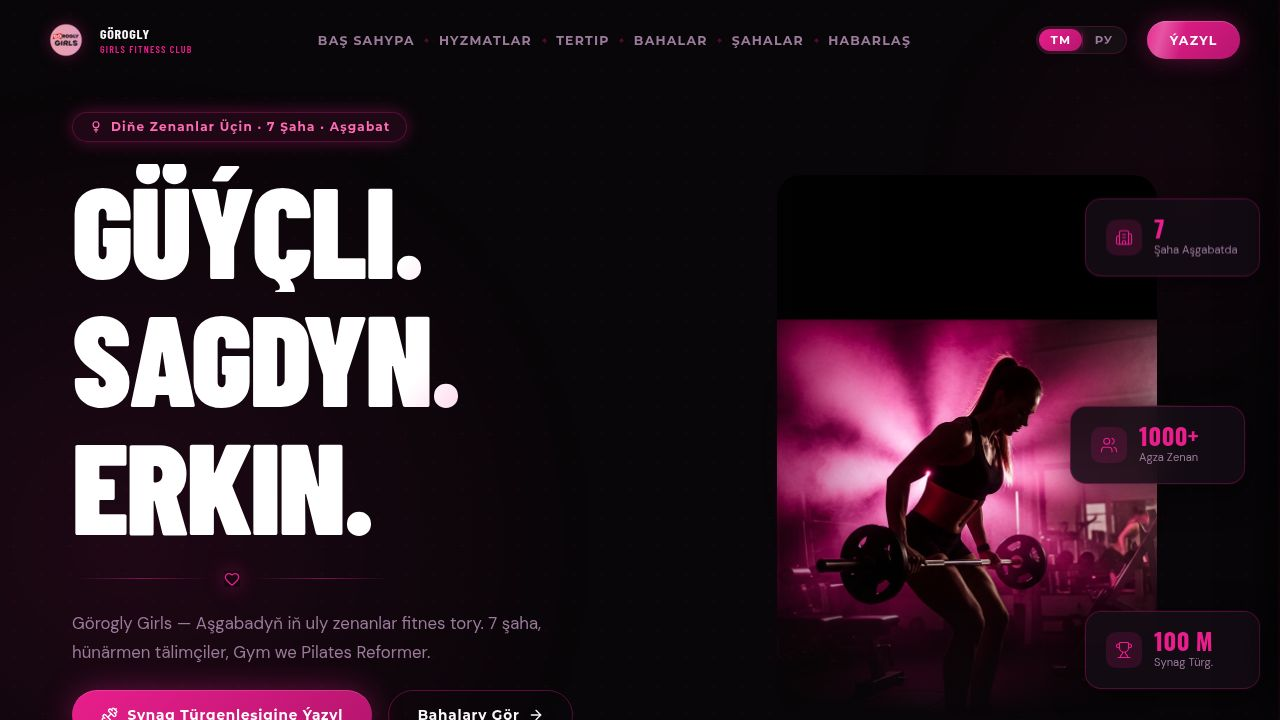
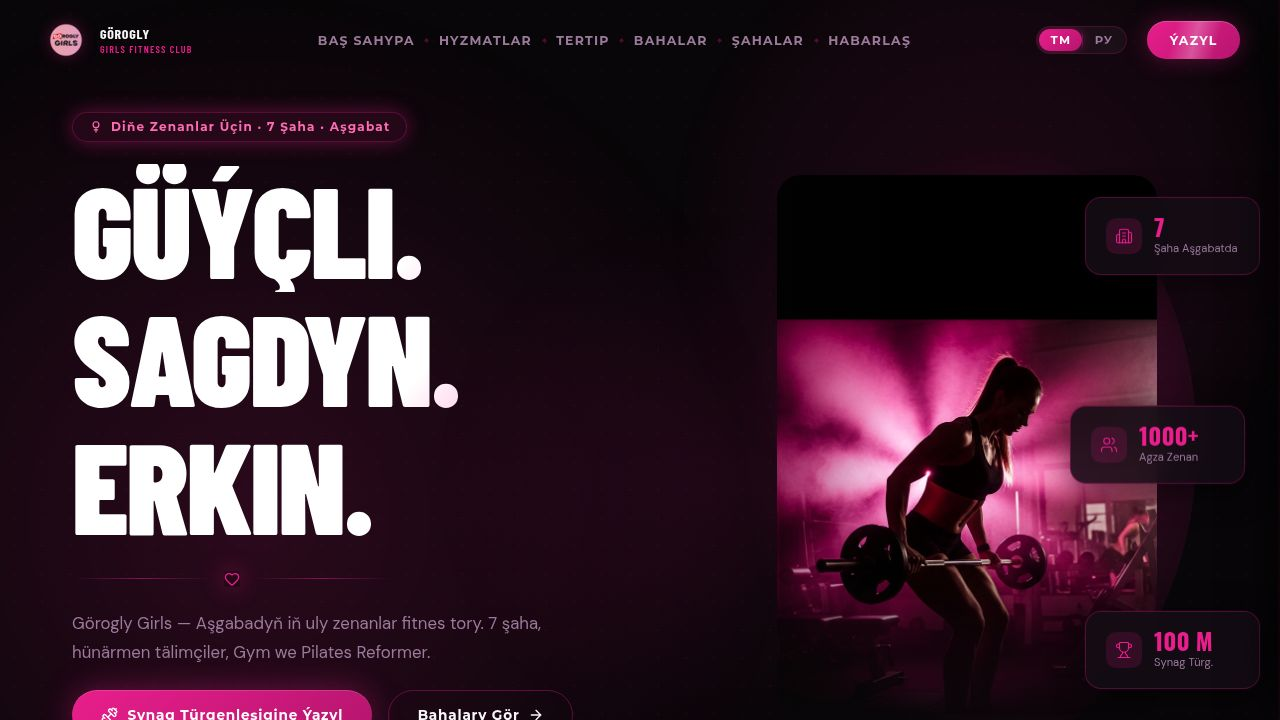
Enhance website visuals with new animations and background effects
Add new CSS keyframe animations including `kenBurns`, `floatOrb`, and `scanLight`. Update existing CSS for `.diag-slash` and introduce new background elements like `.section-mesh`, `.schedule-bg`, `.programs-section-bg`, and `.testimonials-section-bg`. Modify `Home.tsx` to include mobile hero scan and energy divs.

Replit-Commit-Author: Agent
Replit-Commit-Session-Id: 2ae84f4b-2567-4b8b-937e-3b225913a810
Replit-Commit-Checkpoint-Type: full_checkpoint
Replit-Commit-Event-Id: ab05aeac-97c8-4267-9239-1e348e62135b
Replit-Commit-Screenshot-Url: https://storage.googleapis.com/screenshot-production-us-central1/b4bff077-d173-4519-809c-0be909630ca8/2ae84f4b-2567-4b8b-937e-3b225913a810/CxEmX8B
Replit-Helium-Checkpoint-Created: true

diff --git a/artifacts/gorogly-girls/src/index.css b/artifacts/gorogly-girls/src/index.css
@@ -34,13 +34,21 @@ h1, h2, h3, .display { font-family: 'Barlow Condensed', sans-serif; }
 .font-montserrat { font-family: 'Montserrat', sans-serif; }
 
 /* ===== ANIMATIONS ===== */
-@keyframes nebula1   { 0%,100%{transform:translate(0,0) scale(1)}50%{transform:translate(5%,3%) scale(1.08)} }
-@keyframes nebula2   { 0%,100%{transform:translate(0,0) scale(1)}50%{transform:translate(-4%,5%) scale(1.12)} }
-@keyframes floatCard { 0%,100%{transform:translateY(0)}50%{transform:translateY(-12px)} }
-@keyframes pinkGlow  { 0%,100%{box-shadow:0 0 12px rgba(233,30,140,0.25)}50%{box-shadow:0 0 28px rgba(233,30,140,0.5)} }
-@keyframes shimmer   { 0%{left:-100%}100%{left:200%} }
-@keyframes fadeUp    { from{opacity:0;transform:translateY(20px)}to{opacity:1;transform:none} }
-@keyframes rotateSlow{ from{transform:rotate(0deg)}to{transform:rotate(360deg)} }
+@keyframes nebula1    { 0%,100%{transform:translate(0,0) scale(1)}50%{transform:translate(5%,3%) scale(1.08)} }
+@keyframes nebula2    { 0%,100%{transform:translate(0,0) scale(1)}50%{transform:translate(-4%,5%) scale(1.12)} }
+@keyframes floatCard  { 0%,100%{transform:translateY(0)}50%{transform:translateY(-12px)} }
+@keyframes pinkGlow   { 0%,100%{box-shadow:0 0 12px rgba(233,30,140,0.25)}50%{box-shadow:0 0 28px rgba(233,30,140,0.5)} }
+@keyframes shimmer    { 0%{left:-100%}100%{left:200%} }
+@keyframes fadeUp     { from{opacity:0;transform:translateY(20px)}to{opacity:1;transform:none} }
+@keyframes rotateSlow { from{transform:rotate(0deg)}to{transform:rotate(360deg)} }
+@keyframes kenBurns   { 0%{transform:scale(1.15) translateY(-2%)}100%{transform:scale(1.0) translateY(0)} }
+@keyframes floatOrb   { 0%,100%{transform:translateY(0) scale(1);opacity:0.6} 50%{transform:translateY(-30px) scale(1.1);opacity:0.9} }
+@keyframes floatOrb2  { 0%,100%{transform:translateY(0) scale(1.05);opacity:0.5} 50%{transform:translateY(20px) scale(0.95);opacity:0.8} }
+@keyframes pulseRing  { 0%{transform:scale(0.85);opacity:0.8} 100%{transform:scale(1.5);opacity:0} }
+@keyframes gradientShift { 0%{background-position:0% 50%} 50%{background-position:100% 50%} 100%{background-position:0% 50%} }
+@keyframes scanLight  { 0%{top:-20%}100%{top:120%} }
+@keyframes slideUp    { from{opacity:0;transform:translateY(40px)}to{opacity:1;transform:none} }
+@keyframes energyPulse{ 0%,100%{opacity:0.4;transform:scaleY(1)}50%{opacity:0.7;transform:scaleY(1.05)} }
 
 /* Reveal animations */
 .reveal, .reveal-left, .reveal-right {
@@ -298,14 +306,73 @@ h1, h2, h3, .display { font-family: 'Barlow Condensed', sans-serif; }
 /* Diagonal slash background */
 .diag-slash {
   position: absolute; pointer-events: none; z-index: 0;
-  top: -20%; right: -10%; width: 60%; height: 140%;
+  top: -20%; right: -10%; width: 70%; height: 140%;
   background: linear-gradient(
     -45deg,
-    transparent 45%,
-    rgba(var(--pink-rgb), 0.035) 45%,
-    rgba(var(--pink-rgb), 0.035) 55%,
-    transparent 55%
+    transparent 38%,
+    rgba(var(--pink-rgb), 0.055) 38%,
+    rgba(var(--pink-rgb), 0.055) 50%,
+    rgba(var(--pink-rgb), 0.025) 50%,
+    rgba(var(--pink-rgb), 0.025) 62%,
+    transparent 62%
   );
+}
+
+/* Rich section mesh overlay */
+.section-mesh {
+  position: absolute; inset: 0; pointer-events: none; z-index: 0;
+  background:
+    radial-gradient(ellipse at 10% 20%, rgba(233,30,140,0.07) 0%, transparent 45%),
+    radial-gradient(ellipse at 90% 80%, rgba(233,30,140,0.05) 0%, transparent 40%);
+}
+
+/* Schedule background */
+.schedule-bg {
+  background:
+    linear-gradient(180deg, var(--bg) 0%, var(--bg2) 50%, var(--bg) 100%);
+  position: relative;
+}
+.schedule-bg::before {
+  content: '';
+  position: absolute; inset: 0;
+  background:
+    radial-gradient(ellipse at 50% 0%, rgba(233,30,140,0.12) 0%, transparent 50%),
+    radial-gradient(ellipse at 50% 100%, rgba(233,30,140,0.08) 0%, transparent 45%);
+  pointer-events: none;
+}
+
+/* Programs background */
+.programs-section-bg {
+  background: linear-gradient(135deg, var(--surface) 0%, var(--bg2) 50%, var(--surface) 100%);
+  position: relative;
+}
+.programs-section-bg::before {
+  content: '';
+  position: absolute; inset: 0;
+  background:
+    radial-gradient(ellipse at 0% 50%, rgba(233,30,140,0.09) 0%, transparent 45%),
+    radial-gradient(ellipse at 100% 50%, rgba(233,30,140,0.06) 0%, transparent 40%),
+    repeating-linear-gradient(
+      -55deg,
+      transparent,
+      transparent 40px,
+      rgba(233,30,140,0.015) 40px,
+      rgba(233,30,140,0.015) 42px
+    );
+  pointer-events: none;
+}
+
+/* Testimonials background */
+.testimonials-section-bg {
+  background: linear-gradient(180deg, var(--bg) 0%, var(--surface) 60%, var(--bg2) 100%);
+  position: relative;
+}
+.testimonials-section-bg::before {
+  content: '';
+  position: absolute; inset: 0;
+  background:
+    radial-gradient(ellipse at 50% 30%, rgba(233,30,140,0.07) 0%, transparent 50%);
+  pointer-events: none;
 }
 
 /* ===== HERO ===== */
@@ -319,27 +386,61 @@ h1, h2, h3, .display { font-family: 'Barlow Condensed', sans-serif; }
 /* Mobile background image — hidden on desktop */
 .hero-mobile-bg {
   display: none;
-  position: absolute; inset: 0; z-index: 0;
+  position: absolute; inset: 0; z-index: 1;
   overflow: hidden;
+}
+.hero-mobile-bg::before {
+  content: '';
+  position: absolute;
+  width: 200px; height: 200px; border-radius: 50%;
+  background: radial-gradient(circle, rgba(233,30,140,0.55) 0%, transparent 70%);
+  bottom: 25%; left: -40px; z-index: 2;
+  animation: floatOrb 6s ease-in-out infinite;
+  pointer-events: none;
+}
+.hero-mobile-bg::after {
+  content: '';
+  position: absolute;
+  width: 140px; height: 140px; border-radius: 50%;
+  background: radial-gradient(circle, rgba(233,30,140,0.40) 0%, transparent 70%);
+  top: 18%; right: -20px; z-index: 2;
+  animation: floatOrb2 8s ease-in-out infinite;
+  pointer-events: none;
 }
 .hero-mobile-bg-img {
   width: 100%; height: 100%;
-  object-fit: cover; object-position: 60% 40%;
+  object-fit: cover; object-position: 55% 30%;
+  animation: kenBurns 10s ease-out forwards;
 }
 .hero-mobile-bg-overlay {
-  position: absolute; inset: 0;
+  position: absolute; inset: 0; z-index: 3;
   background:
     linear-gradient(to bottom,
-      rgba(8,6,8,0.15) 0%,
-      rgba(8,6,8,0.10) 25%,
-      rgba(8,6,8,0.45) 55%,
-      rgba(8,6,8,0.88) 78%,
+      rgba(8,6,8,0.30) 0%,
+      rgba(8,6,8,0.05) 20%,
+      rgba(8,6,8,0.05) 40%,
+      rgba(8,6,8,0.55) 62%,
+      rgba(8,6,8,0.92) 80%,
       rgba(8,6,8,1.00) 100%
     ),
-    linear-gradient(135deg,
-      rgba(233,30,140,0.22) 0%,
-      transparent 50%
+    linear-gradient(to right,
+      rgba(233,30,140,0.20) 0%,
+      transparent 45%
     );
+}
+/* Scan light effect on mobile hero */
+.hero-mobile-bg-scan {
+  position: absolute; left: 0; right: 0; height: 2px; z-index: 4;
+  background: linear-gradient(to right, transparent, rgba(233,30,140,0.6), transparent);
+  animation: scanLight 5s linear infinite;
+  pointer-events: none;
+}
+/* Pink energy glow at bottom */
+.hero-mobile-energy {
+  position: absolute; bottom: 0; left: 0; right: 0; height: 40%; z-index: 4;
+  background: radial-gradient(ellipse at 50% 100%, rgba(233,30,140,0.35) 0%, rgba(233,30,140,0.10) 40%, transparent 70%);
+  animation: energyPulse 3s ease-in-out infinite;
+  pointer-events: none;
 }
 
 .hero-dots {
@@ -487,10 +588,21 @@ h1, h2, h3, .display { font-family: 'Barlow Condensed', sans-serif; }
 
 /* ===== STATS STRIP ===== */
 .stats-strip {
-  background: linear-gradient(to right, var(--bg2), var(--surface), var(--bg2));
-  border-top: 1px solid rgba(233,30,140,0.2);
-  border-bottom: 1px solid rgba(233,30,140,0.2);
+  position: relative; overflow: hidden;
+  background: linear-gradient(135deg, var(--bg2) 0%, var(--surface) 50%, var(--bg2) 100%);
+  background-size: 200% 200%;
+  animation: gradientShift 8s ease infinite;
+  border-top: 1px solid rgba(233,30,140,0.25);
+  border-bottom: 1px solid rgba(233,30,140,0.25);
   padding: 2.5rem clamp(1rem, 5vw, 3rem);
+}
+.stats-strip::before {
+  content: '';
+  position: absolute; inset: 0;
+  background:
+    radial-gradient(ellipse at 20% 50%, rgba(233,30,140,0.08) 0%, transparent 50%),
+    radial-gradient(ellipse at 80% 50%, rgba(233,30,140,0.08) 0%, transparent 50%);
+  pointer-events: none;
 }
 .stats-grid {
   max-width: 1000px; margin: 0 auto;

diff --git a/artifacts/gorogly-girls/src/pages/Home.tsx b/artifacts/gorogly-girls/src/pages/Home.tsx
@@ -542,6 +542,8 @@ export default function Home() {
         <div className="hero-mobile-bg">
           <img src={heroWoman} alt="" className="hero-mobile-bg-img" />
           <div className="hero-mobile-bg-overlay" />
+          <div className="hero-mobile-bg-scan" />
+          <div className="hero-mobile-energy" />
         </div>
         <div className="hero-dots" />
         <div className="hero-nebula-1" />
@@ -839,7 +841,7 @@ export default function Home() {
       </section>
 
       {/* ===== TRAINERS ===== */}
-      <div className="section-full" style={{ background: 'var(--bg2)' }}>
+      <div className="section-full programs-section-bg">
         <div className="section">
           <div className="diag-slash" />
           <div style={{ position: 'relative', zIndex: 1 }}>
@@ -880,7 +882,7 @@ export default function Home() {
       </div>
 
       {/* ===== PROGRAMS ===== */}
-      <section>
+      <section className="programs-section-bg">
         <div className="section">
           <div className="diag-slash" />
           <div style={{ position: 'relative', zIndex: 1 }}>
@@ -976,7 +978,7 @@ export default function Home() {
       </div>
 
       {/* ===== TESTIMONIALS ===== */}
-      <section>
+      <section className="testimonials-section-bg">
         <div className="section">
           <div className="diag-slash" />
           <div style={{ position: 'relative', zIndex: 1 }}>
